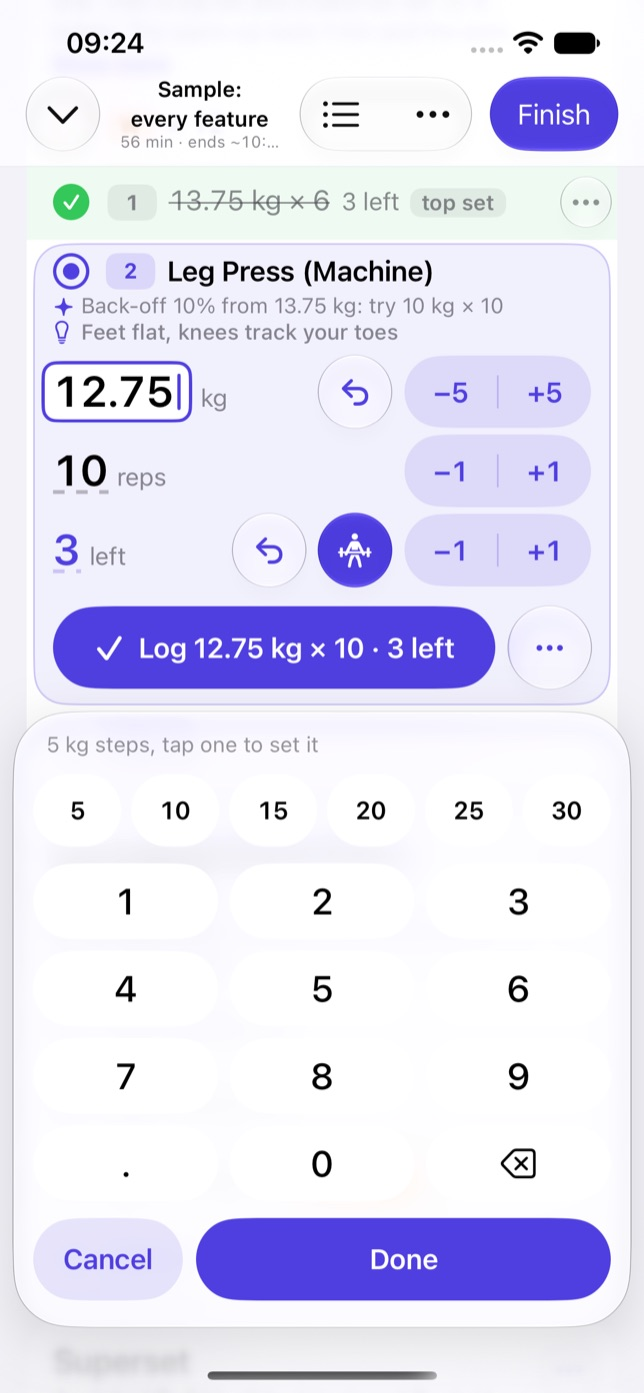
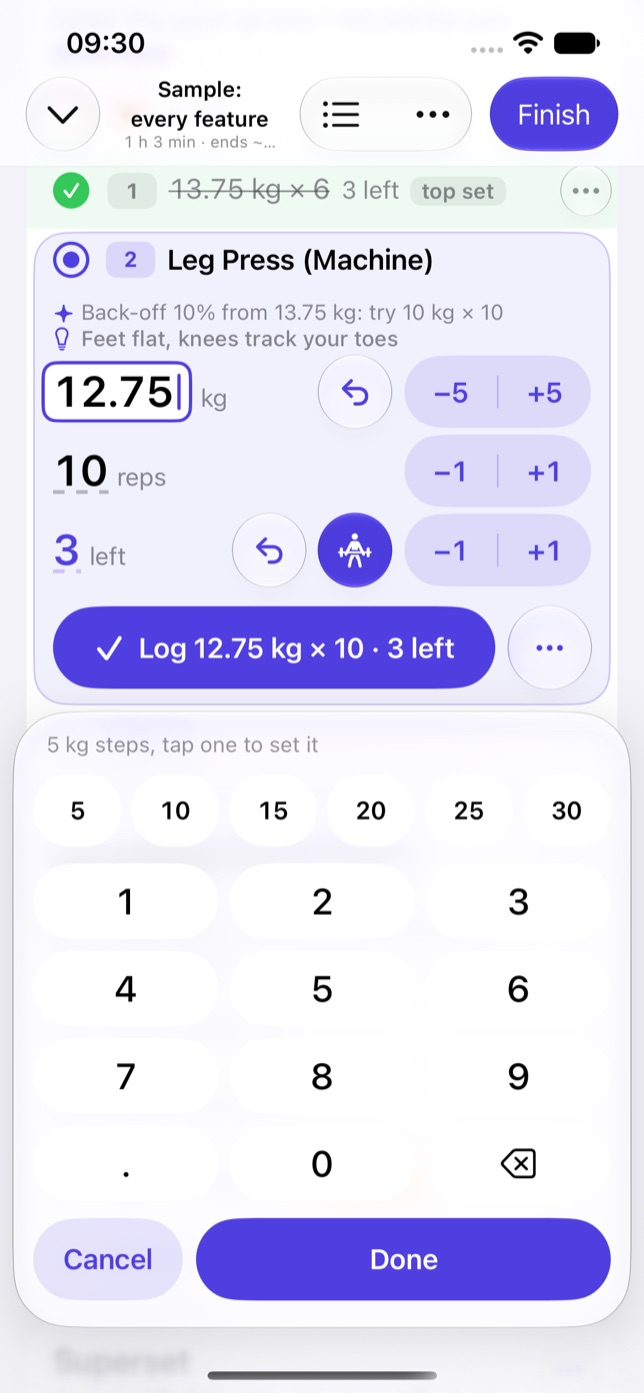
fix(workouts): the open set's note sits as far below its title as the values sit below it
The title to the note was 4.7 pt and the cue to the values 19.7 pt; both are now about 15.7 pt, with or without a cue. The screenshots are retaken on this build.

Changed region(s): [[0.0621, 0.0926, 0.7764, 0.2469], [0.8696, 0.1235, 0.9627, 0.1543], [0.1863, 0.0, 0.2174, 0.0617]]

diff --git a/apps/workouts/apple/Sources/Views/Session/Rows/RowsEditorPanel.swift b/apps/workouts/apple/Sources/Views/Session/Rows/RowsEditorPanel.swift
@@ -45,7 +45,6 @@ struct RowsEditorPanel: View {
                         .foregroundStyle(.secondary)
                         .fixedSize(horizontal: false, vertical: true)
                 }
-                .padding(.bottom, 4)
                 .accessibilityElement(children: .combine)
                 .accessibilityLabel("Cue: \(cue)")
             }
@@ -141,7 +140,9 @@ struct RowsEditorPanel: View {
                 noteSlot(lines: 1)
                 trailing
             }
-            VStack(alignment: .leading, spacing: 2) {
+            // The note under the title sits as far from it as the values sit
+            // from the lines above them (owner, 2026-11-06).
+            VStack(alignment: .leading, spacing: 13) {
                 HStack(spacing: 8) {
                     titleGroup
                     Spacer(minLength: 4)

diff --git a/apps/workouts/DESIGN.md b/apps/workouts/DESIGN.md
@@ -2232,7 +2232,8 @@ line when fixing). In order:
   2026-11-06), the note (a sparkle and the suggestion's reason in 13 pt; a status such as "warm-up 1 of 2" (none in a
   warm-up circuit, whose round says it) or "logged at 12:06" in 15 pt; a red dot and "holding"; never "after the
   rest": a set waits for nothing), and on the right a plus symbol and "Reps left" on one line while reps left are folded, `trailingNote` ("no rest", orange), and Cancel when fixing; the set menu `…` is
-  beside Log, not in the header, so the title keeps the width (owner, 2026-11-06). The note sits beside the title when it fits, else on its own line under it. After
+  beside Log, not in the header, so the title keeps the width (owner, 2026-11-06). The note sits beside the title when it fits, else on its own line under it, as far below the title as
+  the values sit below the note and the cue (owner, 2026-11-06). After
   a reps-left step the new value's meaning ("1 left: very hard") shows in the note's place for 2.5 s without
   changing the header's height.
 - The slot's cue, when the routine gives one (`RowsEditor.cue`): a lightbulb and one line in 13 pt secondary,
